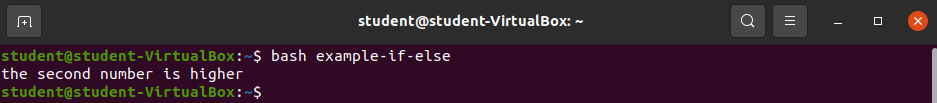
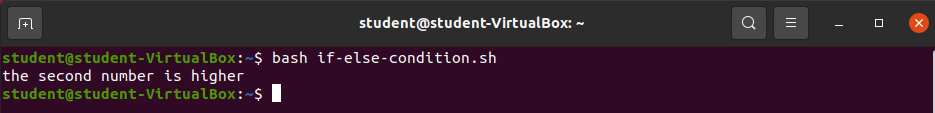
updated conditionals with validation and added a bonus objective

diff --git a/content/bash-scripting/walkthrough/conditionals/index.md b/content/bash-scripting/walkthrough/conditionals/index.md
@@ -48,7 +48,7 @@ Notice that `bash` requires a closing "`fi`" for `if` statements.
 
 ### if Statement
 
-Create a new file called `if-condition`.
+Create a new file called `if-condition.sh`.
 
 ```bash
 #!/bin/bash
@@ -61,15 +61,15 @@ then
 fi
 ```
 
-Save the above code to the `if-condition` file and exit the editor.
+Save the above code to the `if-condition.sh` file and exit the editor.
 
-Run the command `bash if-condition`.
+Run the command `bash if-condition.sh`.
 
 ![if-condition](pictures/if-condition.png?classes=border)
 
 ### if else statement
 
-Create a new file called `example-if-else`.
+Create a new file called `if-else-condition.sh`.
 
 ```bash
 #!/bin/bash
@@ -85,9 +85,9 @@ else
 fi
 ```
 
-Save the above code to the `example-if-else` file and exit the editor.
+Save the above code to the `if-else-condition.sh` file and exit the editor.
 
-Run the command `bash example-if-else`.
+Run the command `bash if-else-condition.sh`.
 
 ![example-if-else](pictures/example-if-else.png?classes=border)
 
@@ -97,12 +97,12 @@ Try changing the values of the variables to test different outcomes!
 
 ### if elif else statement
 
-Create a new file called `if-elif-else`.
+Create a new file called `if-elif-else.sh`.
 
 ```bash
 #!/bin/bash
 
-$new_number1=50
+new_number1=50
 
 if [[ $new_number -lt 50 ]]
 then
@@ -115,12 +115,37 @@ else
 fi
 ```
 
-Save the above code to the `if-elif-else` file and exit the editor.
+Save the above code to the `if-elif-else.sh` file and exit the editor.
 
-Run the command `bash if-elif-else` and try to match each test case:
+Run the command `bash if-elif-else.sh`.
 
-![if-elif-else](pictures/if-elif-else.png?classes=border)
+![bash-if-elif-else](pictures/bash-if-elif-else.png?classes=border)
 
+{{% notice green "Bonus" "rocket" %}}
+You can also read from `stdin` and assign a variable with bash. Create a new file called `read-stdin-example.sh`. 
+
+Add the code below:
+
+```bash
+#!/bin/bash
+
+echo "Please enter a number: "
+read number_value
+
+if [[ $number_value -lt 50 ]]
+then
+    echo "The number $number_value is less than 50"
+elif [[ $number_value -eq 50 ]]
+then
+    echo "The number $number_value is equal to 50"
+else
+    echo "The number $number_value is greater than 50"
+fi
+```
+Run the command `bash read-stdin-example.sh`
+
+![read-stdin-example](pictures/read-stdin-example.png?classes=border)
+{{% /notice %}}
 
 
 
